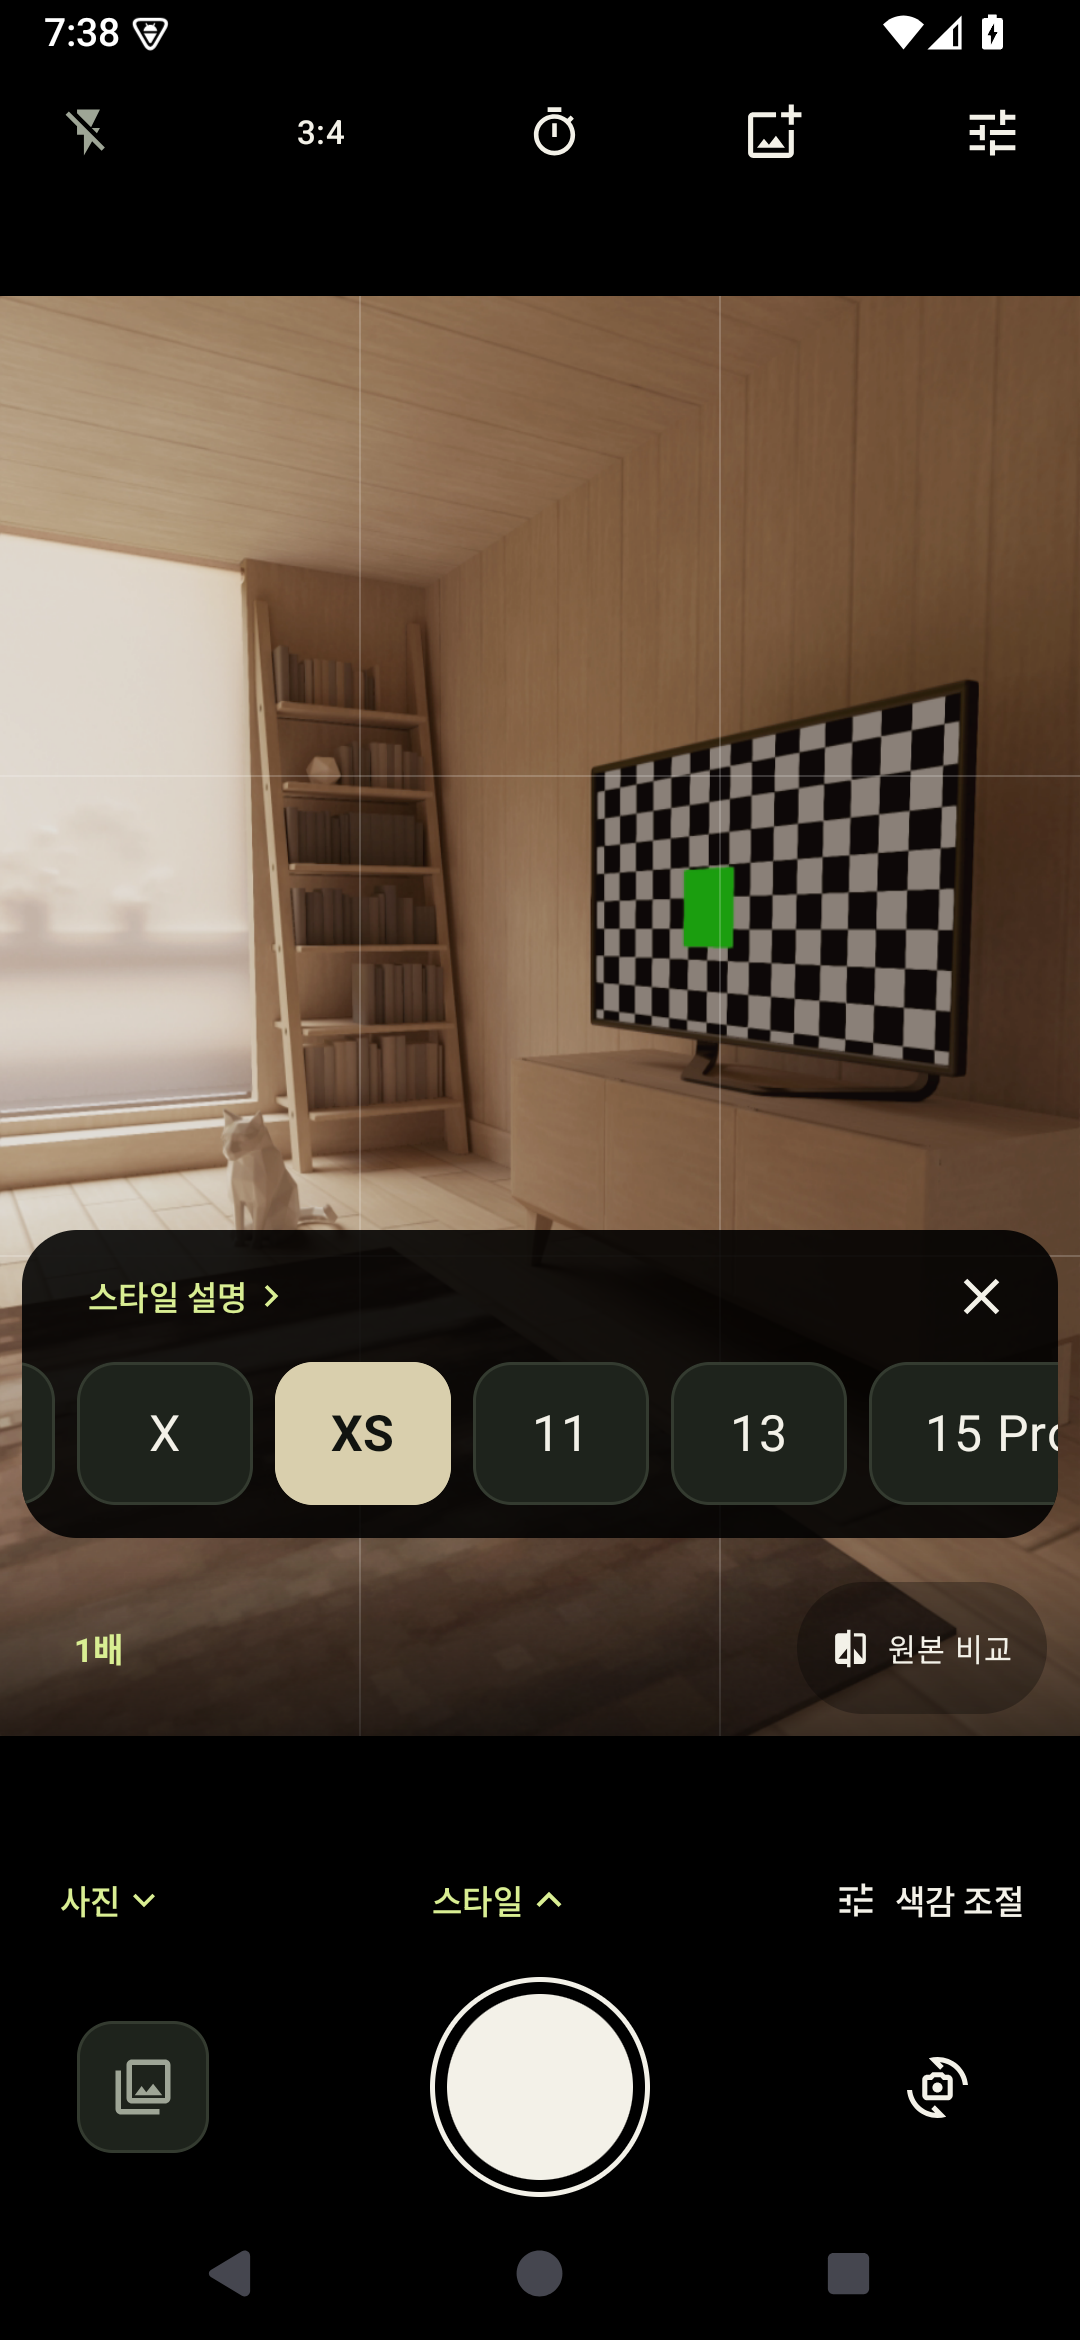
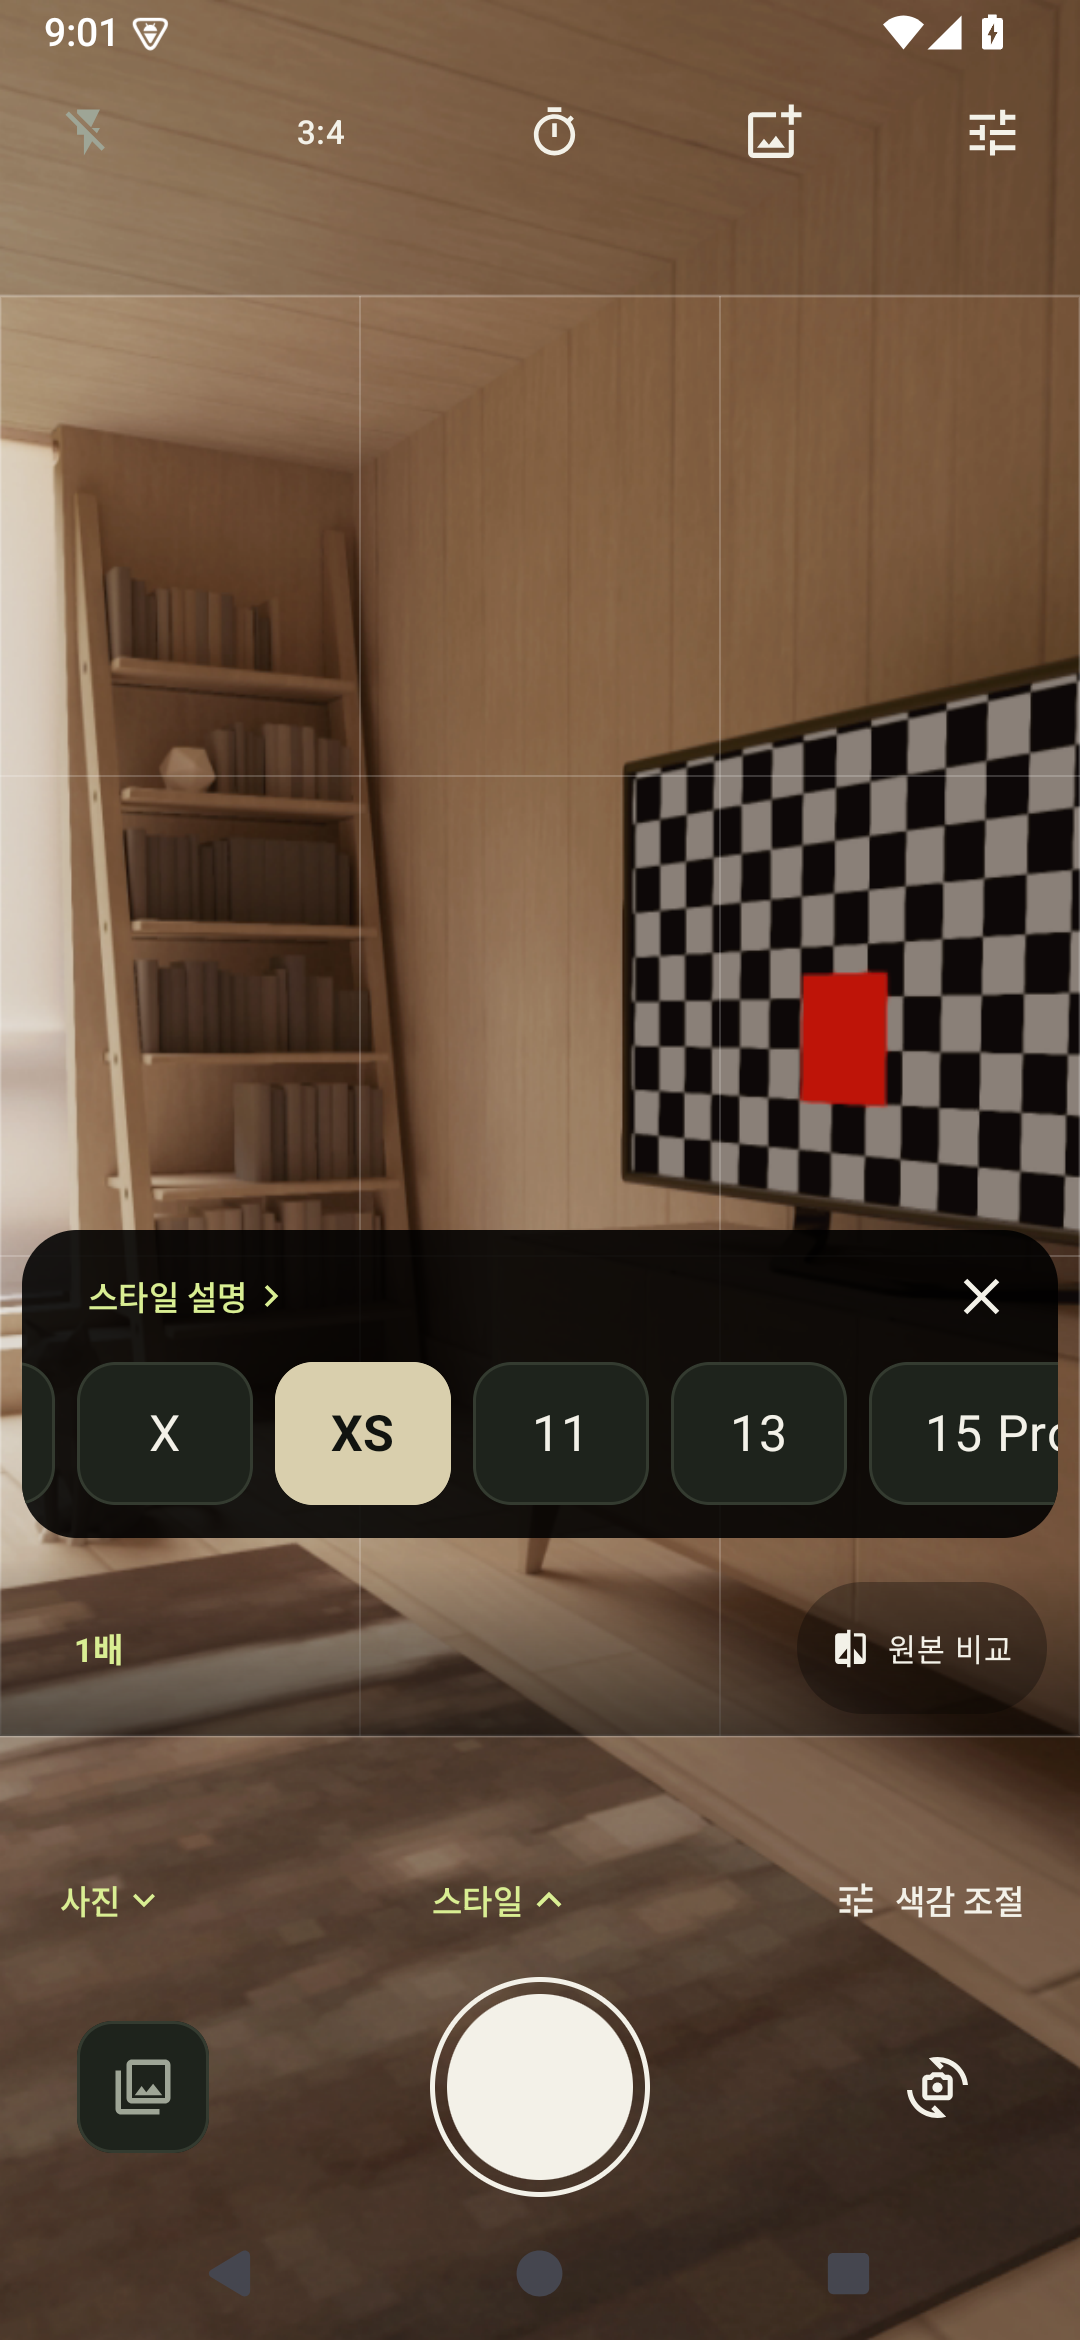
docs: publish full-scene camera previews and release checks

diff --git a/scripts/capture_emulator_ui.py b/scripts/capture_emulator_ui.py
@@ -26,8 +26,16 @@ def main():
         return subprocess.check_output([executable, '-s', args.serial, *arguments], timeout=45)
 
     def nodes():
-        adb('shell', 'uiautomator', 'dump', '/sdcard/moment-ui.xml')
-        return list(ET.fromstring(adb('shell', 'cat', '/sdcard/moment-ui.xml')).iter('node'))
+        # Immediately after instrumentation or launch, accessibility may have no root yet.
+        # Remove the previous dump so a failed attempt cannot tap stale coordinates.
+        for _ in range(6):
+            adb('shell', 'rm', '-f', '/sdcard/moment-ui.xml')
+            try:
+                adb('shell', 'uiautomator', 'dump', '/sdcard/moment-ui.xml')
+                return list(ET.fromstring(adb('shell', 'cat', '/sdcard/moment-ui.xml')).iter('node'))
+            except (subprocess.CalledProcessError, subprocess.TimeoutExpired, ET.ParseError):
+                time.sleep(2)
+        raise RuntimeError('Emulator accessibility tree did not become available')
 
     def find(label, attribute='content-desc', partial=False):
         for node in nodes():

diff --git a/docs/PLAY_INTERNAL_TESTING.md b/docs/PLAY_INTERNAL_TESTING.md
@@ -1,8 +1,8 @@
 # Google Play 내부 테스트
 
-업로드용 키로 서명한 AAB를 [GitHub Releases](https://github.com/hyunjun1234/Iphone_camera/releases/tag/v0.2.3)에서 받을 수 있습니다. GitHub에 파일을 올리는 작업과 Play Console에 내부 테스트 버전을 게시하는 작업은 별개입니다. Console 등록은 아래 순서대로 직접 진행합니다.
+업로드용 키로 서명한 AAB를 [GitHub Releases](https://github.com/hyunjun1234/Iphone_camera/releases/tag/v0.2.4)에서 받을 수 있습니다. GitHub에 파일을 올리는 작업과 Play Console에 내부 테스트 버전을 게시하는 작업은 별개입니다. Console 등록은 아래 순서대로 직접 진행합니다.
 
-- [Play Console 업로드용 AAB 다운로드](https://github.com/hyunjun1234/Iphone_camera/releases/download/v0.2.3/moment-0.2.3-5.aab)
+- [Play Console 업로드용 AAB 다운로드](https://github.com/hyunjun1234/Iphone_camera/releases/download/v0.2.4/moment-0.2.4-6.aab)
 
 **App Bundle 업로드란에는 `.aab` 파일 하나만 선택합니다.** APK는 휴대폰에 직접 설치할 때 쓰는 파일입니다. 이번 GitHub 릴리스에는 Console 업로드용 AAB와 체크섬을 첨부했습니다.
 
@@ -12,19 +12,19 @@
 | --- | --- |
 | 앱 이름 | 모먼트 |
 | 패키지 이름 | `studio.moment.camera` |
-| 버전 | `0.2.3` |
-| 버전 코드 | `5` |
+| 버전 | `0.2.4` |
+| 버전 코드 | `6` |
 | 대상 SDK | Android 16, API 36 |
 | 배포 대상 | 내부 테스트 |
-| Console에 업로드할 파일 | `app/build/outputs/play/moment-0.2.3-5.aab` |
-| 직접 설치할 파일 | `app/build/outputs/play/moment-0.2.3-5.apk` |
+| Console에 업로드할 파일 | `app/build/outputs/play/moment-0.2.4-6.aab` |
+| 직접 설치할 파일 | `app/build/outputs/play/moment-0.2.4-6.apk` |
 
 이 경로들은 로컬 빌드 결과이며 Git에 포함하지 않습니다. 같은 폴더의 `release-info.json`에 파일별 SHA-256과 업로드 인증서 지문이 있습니다. `uploadedToGooglePlay: false`는 파일 생성만 완료했다는 뜻입니다. 이 값은 실제 Console 배포 상태를 조회한 결과가 아닙니다.
 
 ## 업로드 오류가 표시될 때
 
 - **유효한 App Bundle을 업로드하세요:** 선택한 파일의 확장자가 `.aab`인지 확인합니다. APK 파일을 App Bundle 입력란에 함께 올리지 않습니다.
-- **3 버전 코드는 이미 사용되었습니다:** Console에 이미 사용된 버전 코드입니다. 새로 업로드하려면 버전 코드를 높여 빌드해야 합니다. 이번 `moment-0.2.3-5.aab`에는 버전 코드 `5`가 들어 있습니다. 파일 이름이나 Console의 출시명만 바꿔서는 해결되지 않습니다.
+- **3 버전 코드는 이미 사용되었습니다:** Console에 이미 사용된 버전 코드입니다. 새로 업로드하려면 버전 코드를 높여 빌드해야 합니다. 이번 `moment-0.2.4-6.aab`에는 버전 코드 `6`가 들어 있습니다. 파일 이름이나 Console의 출시명만 바꿔서는 해결되지 않습니다.
 - 버전 코드 3의 AAB가 이미 정상 등록돼 있고 같은 파일을 다시 쓰려는 경우에는 새 업로드 대신 **라이브러리에서 추가**로 선택할 수 있습니다.
 
 [버전 코드 안내](https://developer.android.com/studio/publish/versioning), [버전 준비 및 출시 안내](https://support.google.com/googleplay/android-developer/answer/9859348?hl=ko)
@@ -60,8 +60,8 @@ Google Play는 업로드 키와 배포 시 사용하는 앱 서명 키를 구분
 내부 테스트는 앱 설정을 모두 마치기 전에도 사용할 수 있고, 최대 100명의 테스트 계정에 배포할 수 있습니다. [Google 내부 테스트 안내](https://support.google.com/googleplay/android-developer/answer/9845334?hl=ko)
 
 1. Google Play 개발자 계정으로 Console에 로그인합니다. 새 앱이면 이름을 ‘모먼트’, 기본 언어를 한국어로 설정하고 앱 유형과 가격 등 등록 정보를 정합니다. 같은 패키지의 앱이 이미 있으면 그 앱을 엽니다.
-2. **테스트 및 출시 → 테스트 → 내부 테스트**에서 새 버전을 만들고 Play 앱 서명을 설정합니다. `moment-0.2.3-5.aab`를 업로드합니다. 첫 업로드 후 패키지 이름은 고정되므로 `studio.moment.camera`가 맞는지 확인합니다.
-3. 버전 이름은 `0.2.3 (5)`으로 입력하고, [한국어 출시 노트](../play/ko-KR/release-notes.txt)를 붙여넣습니다. Console의 오류가 있다면 해결한 뒤 내부 테스트 버전을 게시합니다.
+2. **테스트 및 출시 → 테스트 → 내부 테스트**에서 새 버전을 만들고 Play 앱 서명을 설정합니다. `moment-0.2.4-6.aab`를 업로드합니다. 첫 업로드 후 패키지 이름은 고정되므로 `studio.moment.camera`가 맞는지 확인합니다.
+3. 버전 이름은 `0.2.4 (6)`으로 입력하고, [한국어 출시 노트](../play/ko-KR/release-notes.txt)를 붙여넣습니다. Console의 오류가 있다면 해결한 뒤 내부 테스트 버전을 게시합니다.
 4. **테스터** 탭에서 휴대폰의 Play 스토어에 로그인한 Google 계정을 테스트 목록에 추가하고 목록을 선택해 저장합니다. 기존 테스트 목록을 교체하지 않도록 주의합니다.
 5. Console에 표시되는 테스트 참여 링크를 복사합니다. 같은 Google 계정으로 링크를 열어 테스트에 참여한 뒤 Play 스토어에서 설치합니다. 처음 게시하면 링크나 앱 표시가 반영될 때까지 시간이 걸릴 수 있습니다.
 
@@ -72,7 +72,7 @@ Google Play는 업로드 키와 배포 시 사용하는 앱 서명 키를 구분
 - 최적화된 릴리스 AAB와 APK 빌드 및 서명 검증
 - AAB와 APK의 업로드 인증서 일치, 디버그 서명 사용 여부 확인
 - Google `bundletool` 1.18.3으로 AAB 구조 검증
-- AAB의 패키지 이름, 버전 코드 5, 버전 0.2.3, 대상 API 36 확인
+- AAB의 패키지 이름, 버전 코드 6, 버전 0.2.4, 대상 API 36 확인
 - APK의 ZIP 정렬과 포함된 ARM64 및 x86_64 네이티브 라이브러리의 ELF 16KB 정렬 확인
 - 서명 설정이 없으면 배포 준비 명령과 서명 필수 빌드가 중단되는지 확인
 - 생성된 키와 비밀번호, 빌드 결과가 Git 추적 대상에서 제외되는지 확인

diff --git a/docs/RELEASE_REVIEW.md b/docs/RELEASE_REVIEW.md
@@ -1,5 +1,21 @@
 # 출시 준비 검토
 
+## 버전 0.2.4 촬영 영역 바깥 미리보기
+
+검토일: 2026-10-27
+
+사용자가 알려 준 [아이폰 16 기사 사진](https://www.sisajournal-e.com/news/articleView.html?idxno=405684)의 화면 구성을 참고했습니다. 촬영 영역 바깥을 검게 비우는 대신, 셔터와 상단 버튼 뒤까지 같은 카메라 장면이 이어집니다. 바깥에는 검정 10% 음영을 적용해 영상이 약 90% 밝기로 보이게 했습니다. 얇은 테두리로 저장될 영역을 표시합니다.
+
+CameraX의 미리보기와 정지 사진을 전체 화면과 같은 ViewPort에 연결하고, 선택한 촬영 영역의 상대 좌표로 저장 사진을 자릅니다. 전면 미리보기 반전, 셀피 저장 설정과 촬영 방향을 좌표에 반영합니다. 원본도 같은 영역으로 잘라 보정본과 구도를 맞춥니다. 색감 조절창에서는 같은 구도를 축소해 표시하며, 사진을 가져와 편집할 때에는 원래 사진 비율을 유지합니다. [CameraX 좌표 변환 문서](https://developer.android.com/media/camera/camerax/transform-output)
+
+저장 안내가 셔터를 덮어 다음 촬영을 막는 문제도 발견해 안내 위치를 상단 도구 아래로 옮겼습니다. 비율을 바꿔 연이어 촬영하는 통합 테스트로 확인했습니다.
+
+하나의 카메라에서 받은 영상을 사용하며, 다른 렌즈의 화각을 합성하는 기능은 제공하지 않습니다. 전체 영상 중 선택한 영역을 저장하면서 기존 버전보다 화각과 최종 화소 수가 줄어들 수 있습니다. 갤럭시별 렌즈와 확장 모드에서의 구도 일치는 실기기 확인이 남아 있습니다.
+
+단위 테스트 14개, API 35 ARM64 및 GitHub의 x86_64 에뮬레이터 통합 테스트 각 16개, 360×720dp와 글자 크기 130%에서 사용성 테스트 5개를 통과했습니다. 세 비율의 연속 촬영, 프레임 바깥 제외, 회전과 반전 후 원본 및 보정본의 영역 일치, 기존 사진 편집과 스타일 접기를 포함합니다. `lintDebug`는 오류 0개, 기존 경고 22개입니다. 최적화된 릴리스 APK와 기존 업로드 키로 서명한 AAB를 생성하고, 서명 일치와 `bundletool` 구조 및 ZIP 정렬 검사를 통과했습니다.
+
+릴리스 APK를 실행해 세로 590×787 및 가로 787×590 JPG 저장과 EXIF 방향 정규화를 확인했습니다. 이 수치는 에뮬레이터의 가상 카메라 결과이며 갤럭시의 저장 해상도를 뜻하지 않습니다. 촬영 화면과 세 비율, 스타일 목록 및 조절창을 실제 실행 화면으로 캡처했습니다.
+
 ## 버전 0.2.3 촬영 화면 개편
 
 검토일: 2026-10-27
